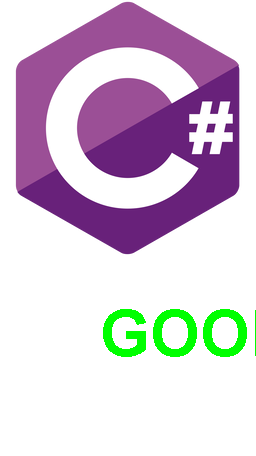
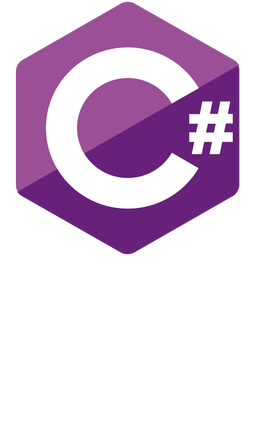
Some fixes

diff --git a/stickers-ldsz/src/StickersGenerator.java b/stickers-ldsz/src/StickersGenerator.java
@@ -24,7 +24,7 @@ public class StickersGenerator {
 
         int imgWidth = originalImage.getWidth();
         int imgHeight = originalImage.getHeight();
-        int imgNewHeight = imgHeight + 200;
+        int imgNewHeight = imgHeight + 170;
 
         BufferedImage newImg = new BufferedImage(imgWidth, imgNewHeight, BufferedImage.TRANSLUCENT);
 
@@ -35,13 +35,13 @@ public class StickersGenerator {
 
         // font configuration
 
-        var imgFont = new Font(Font.SANS_SERIF, Font.BOLD, 64);
-        graphics.setColor(Color.GREEN);
+        var imgFont = new Font(Font.SANS_SERIF, Font.ITALIC, 80);
+        graphics.setColor(Color.YELLOW);
         graphics.setFont(imgFont);
 
         // write a phrase in the new image
 
-        graphics.drawString("GOODONE", 100, imgNewHeight - 100);
+        graphics.drawString("GOOD ONE", 500, imgNewHeight - 50);
 
         // print the image in a file
 

diff --git a/stickers-ldsz/src/App.java b/stickers-ldsz/src/App.java
@@ -7,8 +7,8 @@ public class App {
     public static void main(String[] args) throws Exception {
 
         // Do HTTP connection and get the top 250 movies
-        // String url = "https://mocki.io/v1/9a7c1ca9-29b4-4eb3-8306-1adb9d159060";
-        // ContentExtractor extractor = new ImdbContentExtractor();
+         //String url = "https://mocki.io/v1/9a7c1ca9-29b4-4eb3-8306-1adb9d159060";
+         //ContentExtractor extractor = new ImdbContentExtractor();
        
         // String url = "https://raw.githubusercontent.com/alura-cursos/imersao-java/api/NASA-APOD.json";
         // ContentExtractor extractor = new NasaContentExtractor();
